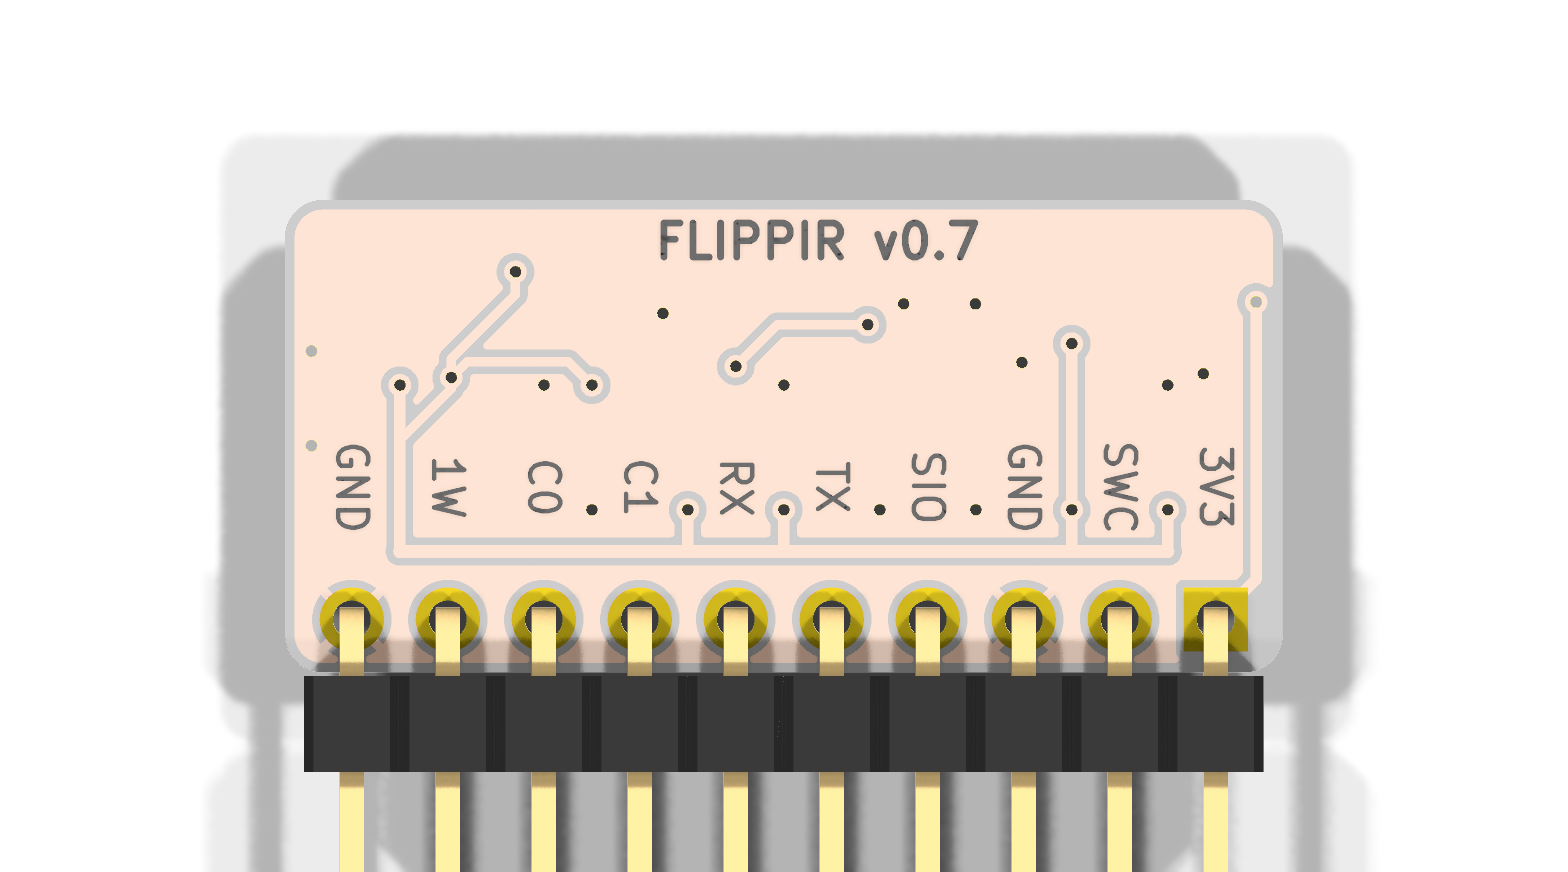
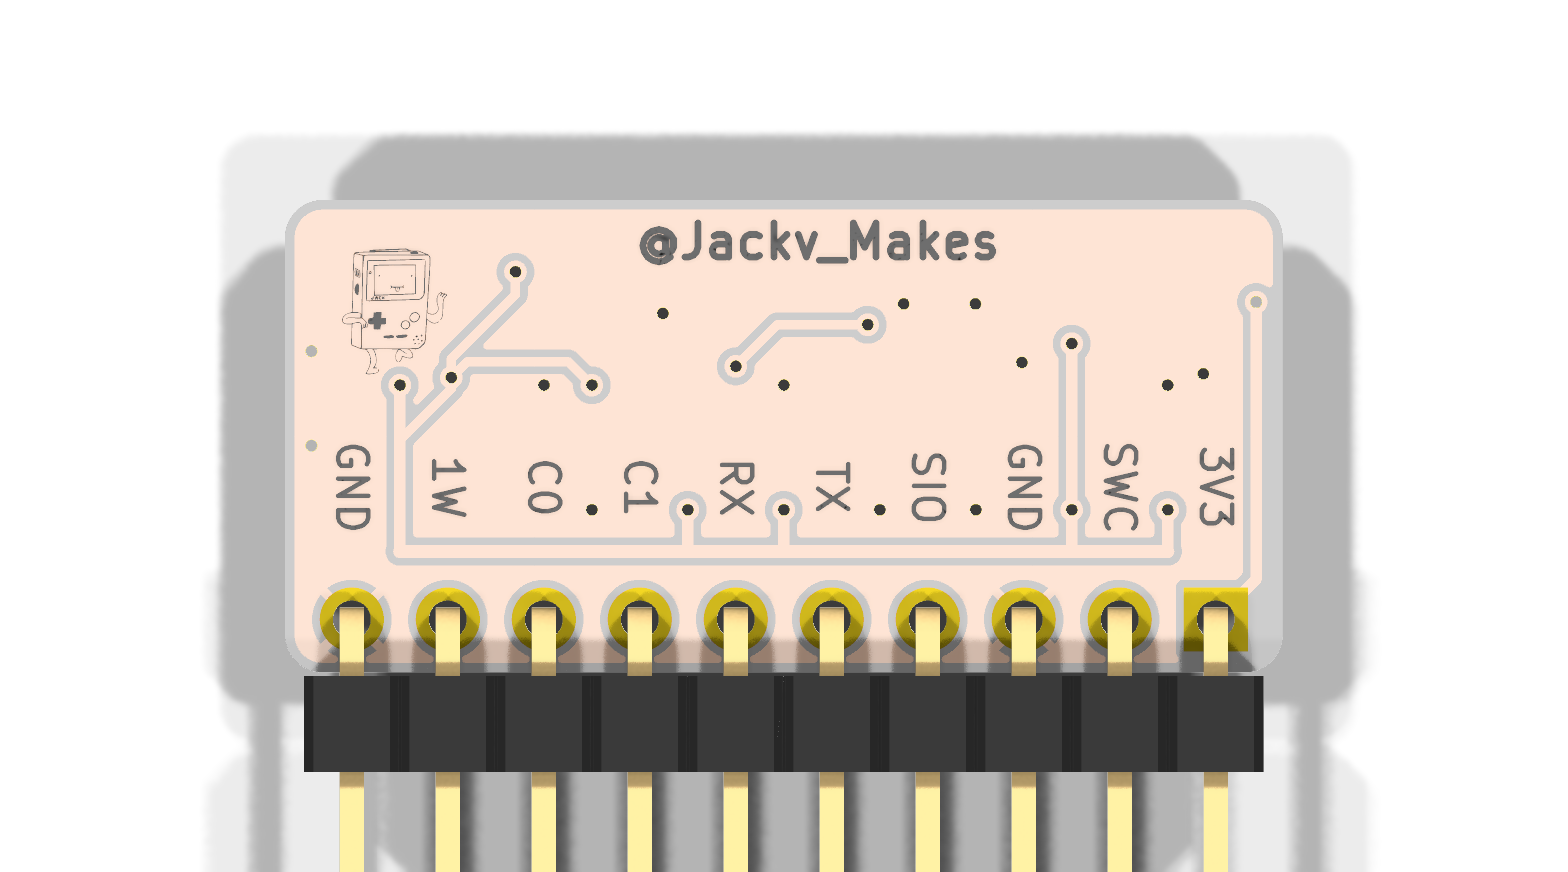
Add files via upload

Changed region(s): [[0.4062, 0.2477, 0.6562, 0.3096], [0.2188, 0.2787, 0.2812, 0.4025]]

diff --git a/README.md b/README.md
@@ -14,7 +14,7 @@ timing, so the built-in port never hears them. The STM32 inside the Flipper has
 an IrDA encoder/decoder built into USART1, though, and that USART is on GPIO
 pins 13 and 14. FlippIR puts a Vishay TFBS4711 transceiver right on those pins,
 so the Flipper gets a real IrDA port, and an ST LIS2DE12 accelerometer on the
-I2C pins next to them for step counting. A Schottky diode in the supply makes
+I²C pins next to them for step counting. A Schottky diode in the supply makes
 plugging it in backwards harmless.
 
 It is 26.4 × 12.5 mm, two layers, all 0603 passives, and stands upright on
@@ -30,7 +30,7 @@ Two apps I've written for the Flipper use this board:
   Radar, dowsing, and the IR link to HeartGold/SoulSilver. FlippIR provides the
   IrDA link and the step counter. Verified with HeartGold/SoulSilver in both
   directions: a Pokémon out for a stroll and back again.
-- **[FlippIR Mystery Gift](https://github.com/Jackv-makes/FlippIR-MysteryGift)**
+- **[Pokemon Mystery Gift](https://github.com/Jackv-makes/flipper-pokemon-mystery-gift)**
   sends a Gen II Mystery Gift (Gold, Silver, Crystal) to a real Game Boy Color
   cartridge, the way two Game Boys would. The Game Boy's IR isn't IrDA, so the
   app bit-bangs the transceiver instead of using the USART. Verified with a
@@ -54,7 +54,7 @@ None of this is built or tested, it's what the hardware makes possible:
 - **Talking to a real Pokéwalker.** Flipwalker plays the walker's side of the
   link. The DS side of the protocol is documented too, so the board could stand
   in for the game and read or write a real walker.
-- **Motion for other apps.** The LIS2DE12 is a plain I2C accelerometer at 0x19:
+- **Motion for other apps.** The LIS2DE12 is a plain I²C accelerometer at 0x19:
   pedometer, tilt control, tap detection, orientation.
 
 What it is not for: 38 kHz remote control, where the Flipper's own IR is better,
@@ -68,17 +68,17 @@ centimetres against a Game Boy's weak LED and more against an IrDA device.
 | Part | What | Flipper pins |
 | --- | --- | --- |
 | U1 Vishay TFBS4711-TR1 | IrDA transceiver, side view, facing away from the Flipper | 13 (USART1 TX, PB6), 14 (USART1 RX, PB7) |
-| U2 ST LIS2DE12 | Accelerometer, I2C address 0x19 (LIS2DH12 also fits) | 15 (SDA, PC1), 16 (SCL, PC0) |
+| U2 ST LIS2DE12 | Accelerometer, I²C address 0x19 (LIS2DH12 also fits) | 15 (SDA, PC1), 16 (SCL, PC0) |
 | D1 MBR0520 | Schottky diode in the 3.3 V feed, reverse-plug protection | 9 (3.3 V) |
 | J1 | 10-pin right-angle 2.54 mm header | 9–18 |
 
 The IRED anode goes straight to 3.3 V, which is what Vishay asks for (the chip
 regulates its own 300 mA pulses). R2 and C2 filter the receiver supply, C1
 buffers the LED supply, R1 holds TX low when no app is driving it, R3/R4 are
-the I2C pull-ups.
+the I²C pull-ups.
 
 **Don't need the accelerometer?** The same board works with the LIS2DE12, its
-decoupling capacitor and the two I2C pull-ups left off. The IR side doesn't
+decoupling capacitor and the two I²C pull-ups left off. The IR side doesn't
 touch them; pins 15 and 16 just stay unconnected.
 
 It plugs into the Flipper's 10-pin socket (pins 9–18) with the pad marked
@@ -103,7 +103,7 @@ or TFDU4101):
 | 5 VCC1 | 9 (3.3 V) |
 | 6 GND | 8, 11 or 18 |
 
-Any I2C accelerometer breakout on pins 15/16 does for Flipwalker (LIS3DH,
+Any I²C accelerometer breakout on pins 15/16 does for Flipwalker (LIS3DH,
 LIS2DH12, MPU-6050/6500/9250 and ADXL345 are all detected). A bare IR LED and
 photodiode won't do: pin 14 feeds the USART's IrDA decoder through a 40 kΩ
 pull-up and a bare photodiode can't drive it at any useful distance.
@@ -124,7 +124,7 @@ pull-up and a bare photodiode can't drive it at any useful distance.
   bare-photodiode receiver is what convinced me a proper transceiver was the
   way to go on the Flipper.
 - [TheRealNox](https://github.com/TheRealNox/flipper-pokemon-mystery-gift) for
-  the Gen II Mystery Gift protocol work the FlippIR Mystery Gift app started
+  the Gen II Mystery Gift protocol work the Pokemon Mystery Gift app started
   from.
 - [kbembedded](https://github.com/kbembedded/Flipper-Zero-Game-Boy-Pokemon-Trading)
   for spelling out why the Flipper's onboard IR can't talk to a Game Boy.
